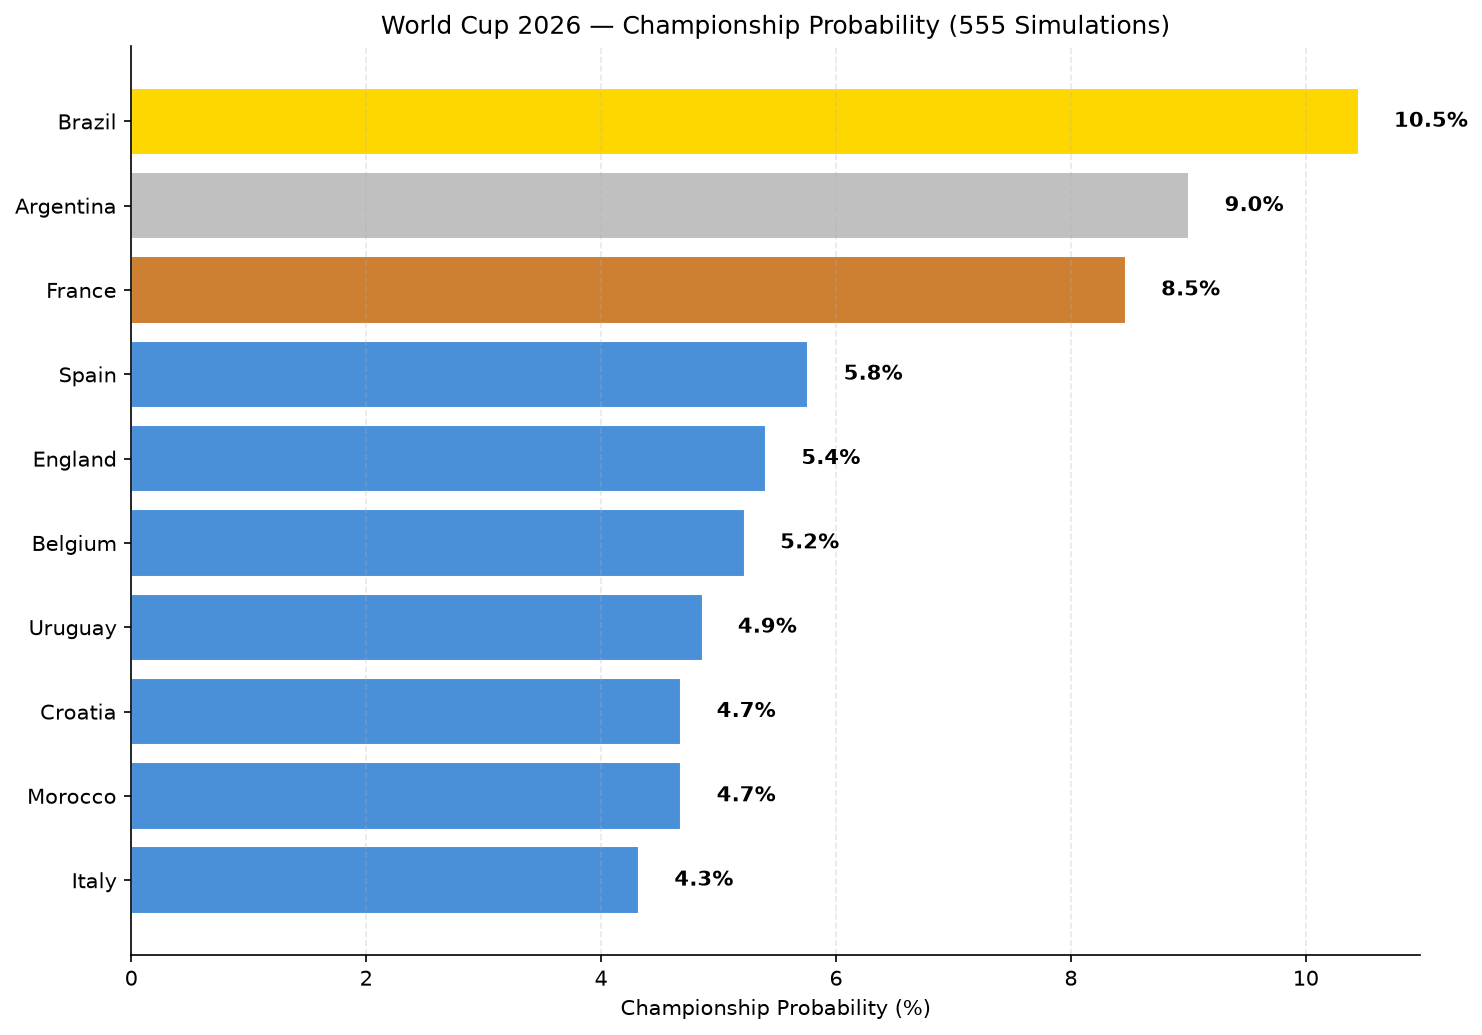
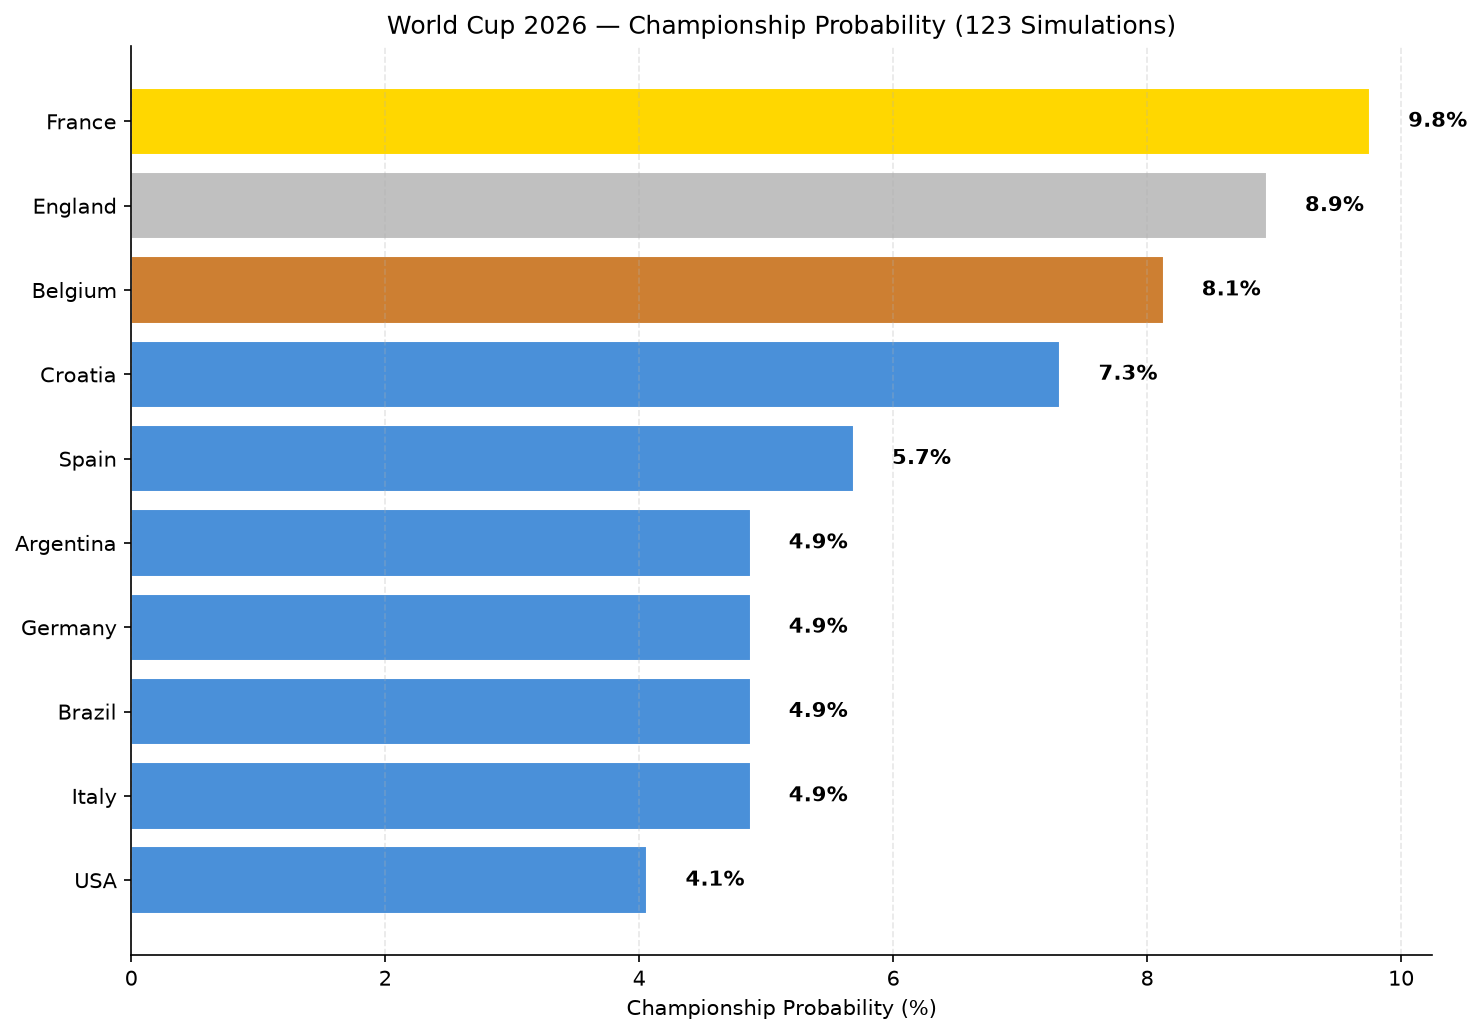
update

diff --git a/modules/worldcup_simulator.py b/modules/worldcup_simulator.py
@@ -76,15 +76,19 @@ class WorldCupSimulator:
              # اضافه کردن تیم به گروه مربوط
              self.groups[i].teams.append(team)
          
-    def run_group_stage(self):
+    def run_group_stage(self, show_table=True):
         """مرحله گروهی را اجرا میکند و نتایج را نمایش میدهد.
         """
         for group in self.groups:
             group.play_all_matches()
-            print(f"=== {group.name} ===")
-            ranking = group.get_ranking()
-            for i, team in enumerate(ranking):
-                print(f"{i+1}. {team.name}: {team.points} points GD {team.goal_difference()} GF {team.goals_for}")
+            
+            # کنترل نمایش جدول گروهها
+            if show_table:
+                
+              print(f"=== {group.name} ===")
+              ranking = group.get_ranking()
+              for i, team in enumerate(ranking):
+                  print(f"{i+1}. {team.name}: {team.points} points GD {team.goal_difference()} GF {team.goals_for}")
                 
     def setup_knockout_bracket(self):
         """مرحله حذفی را می سازد.
@@ -153,7 +157,7 @@ class WorldCupSimulator:
         self.champion = self.final.get_winners()[0] 
      
     def run_full_simulation(self):
-        """مرحله گروهی و حذفی را اجرا میکند و نتایج را نمایش میدهد.
+        """مرحله گروهی و حذفی را اجرا میکند و قهرمان را بر میگرداند.
         """
         # بازنشانی آمار تمام تیمها
         for team in self.teams:
@@ -161,40 +165,63 @@ class WorldCupSimulator:
         # قرعهکشی گروهها
         self.seed_and_draw()
         # اجرای مرحله گروهی
-        self.run_group_stage()
+        # show_table=False چون در شبیهسازی ۱۰۰۰ باره نیازی به نمایش جدول نیست
+        self.run_group_stage(show_table=False)
          # ساخت جدول مرحله حذفی
         self.setup_knockout_bracket()
-         # ساخت جدول مرحله حذفی
+         # اجرای مرحله حذفی
         self.run_knockout_stage() 
          # قهرمان
-        print(f"Champion: {self.champion.name}")
+        return self.champion.name
         
     def most_likely_champion(self, num_simulations=1000):
-        """مرحله گروهی و حذفی را ۱۰۰۰ بار اجرا میکند و نتایج را نمایش میدهد.
+        """مرحله گروهی و حذفی را چند بار اجرا میکند و نتایج را گزارش میدهد.
+
+        Args:
+            num_simulations (int): تعداد دفعات اجرای شبیهسازی.
         """
         # ساختن یک دیکشنری برای ذخیره نام تیم ها و تعداد برنده شدن آنها
         champions = {}
         # اجرای شبیهسازی
         for _ in range(num_simulations):
-            self.run_full_simulation()
             # افزایش تعداد قهرمانی تیم برنده
-            name = self.champion.name
+            name = self.run_full_simulation()
             champions[name] = champions.get(name, 0) + 1
         # نمایش درصد قهرمانی هر تیم
         print(f"\nResults of {num_simulations} simulations:")
         for name, count in sorted(champions.items(), key=lambda x: x[1], reverse=True):
             print(f"{name}: {count/num_simulations*100:.1f}%")
+
+        # رسم نمودار به صورت جداگانه توسط فراخواننده
         return champions
     
     def plot_champion_stats(self, champions, num_simulations):
+        """رسم نمودار احتمال قهرمانی تیمها بر اساس نتایج شبیهسازی.
+        تیمها را بر اساس تعداد قهرمانی مرتب میکند، احتمال قهرمانی هر تیم
+        را محاسبه کرده و نمودار میلهای افقی ۱۰ تیم برتر را نمایش میدهد.
+
+        Args:
+            champions (dict):
+                دیکشنری شامل نام تیمها به عنوان کلید و تعداد قهرمانی آنها
+                در شبیهسازیها به عنوان مقدار.
+            num_simulations (int):
+                تعداد کل دفعات اجرای شبیهسازی.
+
+        Returns:
+            None:
+                نمودار را در فایل champion_stats.png ذخیره کرده و نمایش میدهد.
+        """
+        if plt is None:
+            print("matplotlib is not installed")
+            return
+
         # مرتب کردن از بیشتر به کمتر
         sorted_champions = sorted(champions.items(), key=lambda x: x[1], reverse=True)
-    
-    # فقط ۱۰ تیم اول
+        # فقط ۱۰ تیم اول
         names = [item[0] for item in sorted_champions[:10]]
+        # تبدیل تعداد قهرمانی به درصد احتمال قهرمانی
         percentages = [item[1] / num_simulations * 100 for item in sorted_champions[:10]]
-    
-    # رنگبندی — طلایی اول، نقرهای دوم، برنزی سوم، آبی بقیه
+        # رنگبندی — طلایی اول، نقرهای دوم، برنزی سوم، آبی بقیه
         colors = []
         for i in range(len(names)):
             if i == 0:
@@ -206,24 +233,37 @@ class WorldCupSimulator:
             else:
                 colors.append('#4a90d9')
 
+        # ساختن یک صفحه نمودار
         fig, ax = plt.subplots(figsize=(10, 7))
+        # names[::-1] لیست تیمها را برعکس میکند
+        # percentages[::-1] درصدها را هم برعکس میکند
         bars = ax.barh(names[::-1], percentages[::-1], color=colors[::-1], edgecolor='white')
 
-    # نوشتن درصد کنار هر بار
+        # نوشتن درصد کنار هر بار
         for bar, pct in zip(bars, percentages[::-1]):
             ax.text(bar.get_width() + 0.3, bar.get_y() + bar.get_height() / 2,
                     f'{pct:.1f}%', va='center', fontsize=10, fontweight='bold')
 
+        # اسم محور افقی
         ax.set_xlabel('Championship Probability (%)')
+        # عنوان نمودار
         ax.set_title(f'World Cup 2026 — Championship Probability ({num_simulations} Simulations)')
+        # حذف خط بالایی کادر نمودار
         ax.spines['top'].set_visible(False)
+        # حذف خط سمت راست کادر نمودار
         ax.spines['right'].set_visible(False)
+        # اضافه کردن خطوط کمکی عمودی
+        # برای خوانایی بهتر درصدها
         ax.grid(axis='x', alpha=0.3, linestyle='--')
-
+        # تنظیم فاصلهها تا نوشتهها قطع نشوند
         plt.tight_layout()
+        # ذخیره نمودار به عنوان فایل PNG
         plt.savefig('champion_stats.png', dpi=150, bbox_inches='tight')
-        plt.show()
-
+        # نمایش نمودار روی صفحه بدون توقف برنامه (block=False)
+        plt.show(block=False)
+        # توقف ۰.۱ ثانیه ای برای لود شدن نمودار
+        plt.pause(0.1)
+     
     def display_bracket(self):
         """برگرداندن نتایج مرحله حذفی.
         """

diff --git a/main.py b/main.py
@@ -2,7 +2,7 @@
 # دانشجو: امیرمحمد باقری
 # 404130433 : شماره دانشجویی
 # عنوان پروژه: شبیه ساز جام جهانی
-# تاریخ تحویل: 
+# تاریخ تحویل: 1405/5/3
 # =======================
 
 from modules.worldcup_simulator import WorldCupSimulator
